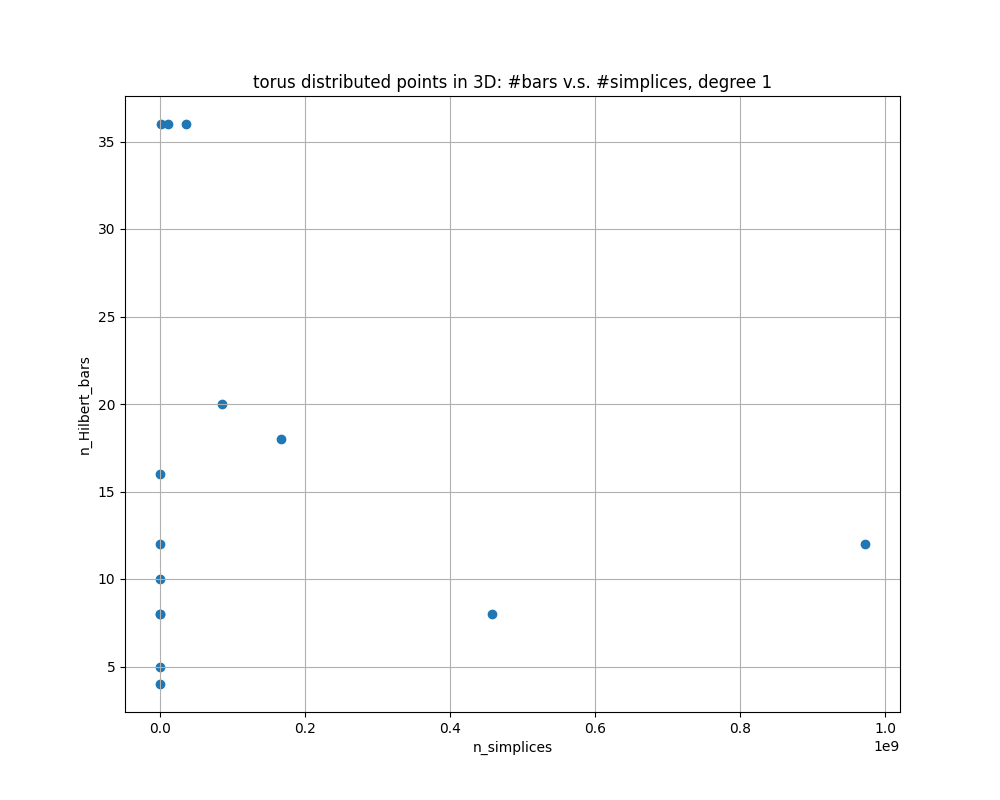
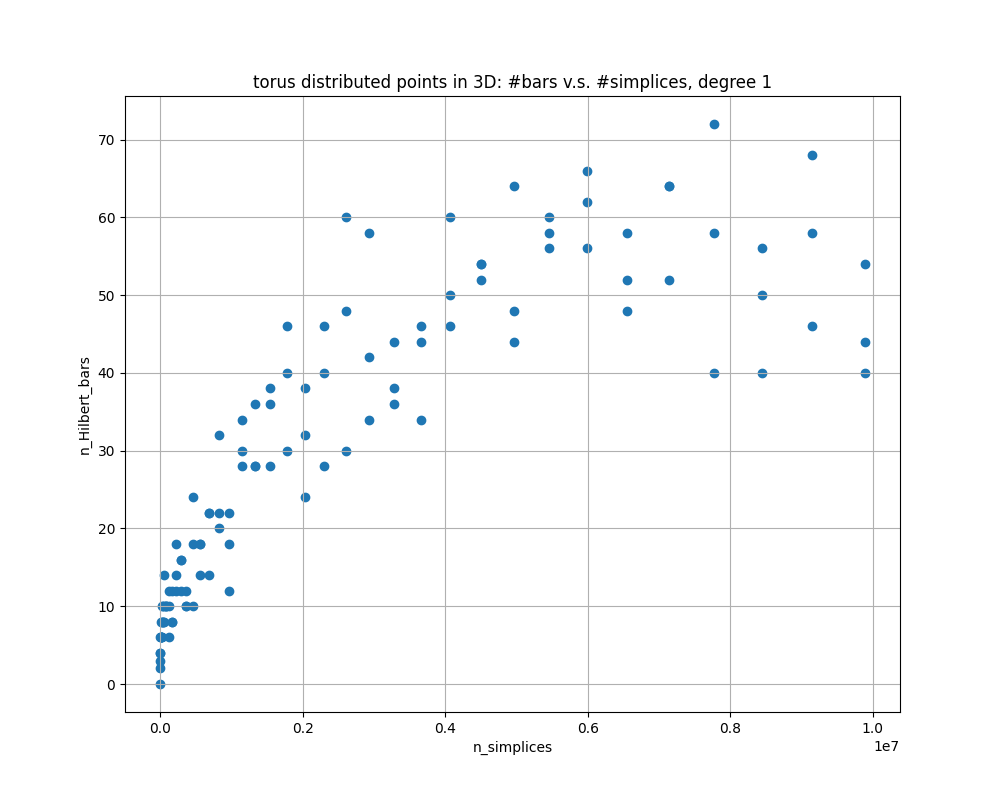
add experimental results for higher dimension

diff --git a/persistable/experiment_count_decomp_v4.py b/persistable/experiment_count_decomp_v4.py
@@ -61,8 +61,24 @@ def generate_clustered_points(N, d, c, cluster_std_dev):
     #print("max_values=",max_values)
     # Normalize the points so they fall within the range [0, 1]
     normalized_points = (points - min_values) / (max_values - min_values)
+    return normalized_points
+
+def generate_hypersphere_points(N, k,radius=1):
+    # Generate N k-dimensional Gaussian random vectors
+    points = np.random.normal(size=(N, k))
+
+    # Normalize each point to the hypersphere of given radius
+    points /= np.linalg.norm(points, axis=1)[:, np.newaxis]
+    points *= radius
+    min_values = np.min(points, axis=0)
+    max_values = np.max(points, axis=0)
+
+    # Normalize the points so they fall within the range [0, 1]
+    normalized_points = (points - min_values) / (max_values - min_values)
 
     return normalized_points
+
+
 
 def create_uniformly_distributed_points(dim,pts_range,N):
     # output is a (N,2) array
@@ -78,6 +94,12 @@ def create_Gaussian_points(dim,pts_range,N,n_clusters):
     points = generate_clustered_points(N, dim, n_clusters, 0.05)
     points = points * pts_range
     return points
+
+def create_sphere_points(dim,pts_range,N):
+    points = generate_hypersphere_points(N,dim)
+    points = points * pts_range
+    return points
+
 
 def hf_degree_rips(
     distance_matrix,
@@ -116,8 +138,6 @@ def run_experiments_higher_homology(n_batch, dim_point, pts_range, num_points, d
 
     for num_point in num_points:
         for batch_id in range(n_batch):
-            print("num_point=",num_point)
-            print("batch_id=",batch_id)
             # Create points
             if data_type=="uniform":
                 points = create_uniformly_distributed_points(dim_point,pts_range, num_point)
@@ -125,6 +145,8 @@ def run_experiments_higher_homology(n_batch, dim_point, pts_range, num_points, d
                 points = create_torus_points(pts_range, num_point)
             elif data_type=="gaussian":
                 points = create_Gaussian_points(dim_point,pts_range, num_point,n_clusters)
+            elif data_type=="sphere":
+                points = create_sphere_points(dim_point,pts_range,num_point)
 
             dist = DistanceMetric.get_metric('minkowski')
             distance_matrix = dist.pairwise(points)
@@ -164,18 +186,20 @@ def draw_plot(x,y,x_name,y_name,title_name,fig_name):
 
 
 ##### User Define
-n_batch = 1
+n_batch = 5
 pts_range = 10
-data_type = "torus"
-max_n_clusters = 8
-max_dim_points = 8
+data_type = "sphere"
+max_n_clusters = 5
+max_dim_points = 5
 max_degree = 1
 min_degree = 0
 min_radius = 0
 grid_granularity = 10
-max_homological_dimension = 1
-num_points=[10,20,30,40,60,80,100,200,400,600,800,1000,1400,1800]
-#num_points=[10,20,30,40,60,70,80,90,100,110,120]
+max_homological_dimension = 2
+#num_points=[10,20,30,40,60,80,100,200,400,600,800,1000,1400,1800]
+#num_points=[10,20,30,40,60,70,80,90,100,110,120,130,140,150,160,170,180,190,200]
+num_points=np.arange(10,200,5)
+print("num_points=",num_points)
 ######
 
 dist = DistanceMetric.get_metric('minkowski')
@@ -198,16 +222,14 @@ if data_type == "torus":
     fig_name2 = data_type + "/" + data_type+"_" + str(dim_point) + "D_bars-vertices_degree_"+str(max_homological_dimension)
     fig_name3 = data_type +"/" + data_type+"_" + str(dim_point) + "D_bars-sqrt(n_simplices)_degree_"+str(max_homological_dimension)
 
-
     n_simplices_array = np.array(n_simplices)
     sbrt_n_simplices = np.cbrt(n_simplices_array)
     cbrt_n_simplices_list = list(sbrt_n_simplices)
-    
 
     draw_plot(n_simplices,n_signed_bars,'n_simplices','n_Hilbert_bars',title_name1,fig_name1)
     draw_plot(n_vertices, n_signed_bars, 'n_pts','n_Hilbert_bars',title_name2,fig_name2)
-    draw_plot(cbrt_n_simplices_list, n_signed_bars, 'cbrt_n_simplices','n_Hilbert_bars',title_name3,fig_name3)
-    pdb.set_trace()
+    #draw_plot(cbrt_n_simplices_list, n_signed_bars, 'cbrt_n_simplices','n_Hilbert_bars',title_name3,fig_name3)
+    #pdb.set_trace()
 
 
 elif data_type== "gaussian":
@@ -231,10 +253,10 @@ elif data_type== "gaussian":
 
             draw_plot(n_simplices,n_signed_bars,'n_simplices','n_Hilbert_bars',title_name1,fig_name1)
             draw_plot(n_vertices, n_signed_bars, 'n_pts','n_Hilbert_bars',title_name2,fig_name2)
-            draw_plot(sqrt_n_simplices_list, n_signed_bars, 'sqrt_n_simplices','n_Hilbert_bars',title_name3,fig_name3)
+            #draw_plot(sqrt_n_simplices_list, n_signed_bars, 'sqrt_n_simplices','n_Hilbert_bars',title_name3,fig_name3)
 
              
-elif data_type=="uniform":
+elif data_type=="uniform" or "sphere":
     for dim_point in range(1,max_dim_points):
         max_radius = (dist.pairwise([np.zeros(dim_point),np.ones(dim_point)*pts_range])[0,1]+1)/2
 
@@ -252,4 +274,5 @@ elif data_type=="uniform":
         sqrt_n_simplices_list = list(sqrt_n_simplices)
         draw_plot(n_simplices,n_signed_bars,'n_simplices','n_Hilbert_bars',title_name1,fig_name1)
         draw_plot(n_vertices, n_signed_bars, 'n_pts','n_Hilbert_bars',title_name2,fig_name2)
-        draw_plot(sqrt_n_simplices_list, n_signed_bars, 'sqrt_n_simplices','n_Hilbert_bars',title_name3,fig_name3)
+        #draw_plot(sqrt_n_simplices_list, n_signed_bars, 'sqrt_n_simplices','n_Hilbert_bars',title_name3,fig_name3)
+

diff --git a/create_sphere_points.py b/create_sphere_points.py
@@ -1,0 +1,36 @@
+import numpy as np
+import matplotlib.pyplot as plt
+
+def generate_hypersphere_points(N, k,radius=1):
+    # Generate N k-dimensional Gaussian random vectors
+    points = np.random.normal(size=(N, k))
+
+    # Normalize each point to the hypersphere of given radius
+    points /= np.linalg.norm(points, axis=1)[:, np.newaxis]
+    points *= radius
+    min_values = np.min(points, axis=0)
+    max_values = np.max(points, axis=0)
+
+    # Normalize the points so they fall within the range [0, 1]
+    normalized_points = (points - min_values) / (max_values - min_values)
+
+    return normalized_points
+
+# Example usage:
+N = 1000  # Number of points
+k = 3  # Dimensionality of the space
+radius = 1  # Radius of the hypersphere
+points = generate_hypersphere_points(N, k) * 20
+
+
+# Create a new figure
+fig = plt.figure()
+
+# Add a 3D subplot
+ax = fig.add_subplot(111, projection='3d')
+
+# Scatter the points
+ax.scatter(points[:, 0], points[:, 1], points[:, 2])
+
+# Show the plot
+plt.show()

diff --git a/README.md b/README.md
@@ -1,11 +1,12 @@
 # Count_decomp
 This repository is based on [Persistable](https://github.com/LuisScoccola/persistable).
 
-First, complile the Cython code
+First, complile the Cython code if you want to run the orignal Persistable code.
 ```
 cd persistable
 python setup.py build_ext --inplace
 ```
+
 
 
 ## The first version
